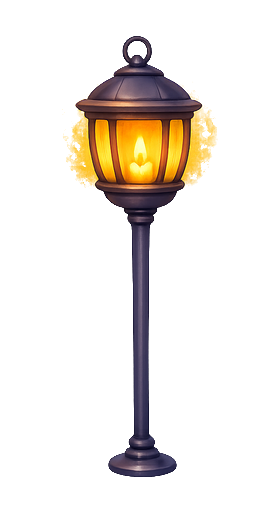
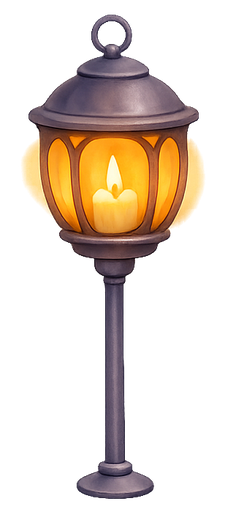
Art round two: a cobbled road, a softer lantern and a painted firefly on the map and the board
The road ribbon can repeat a painted surface inside its body, thinning out
toward the horizon in bands. The lantern posts are repainted in a softer
hand. The firefly is a picture drawn on the same feet point and with the
same squash, tilt, facing and sleep cues as the code-drawn creature, so
hops and landings are unchanged; it also replaces the firefly in the
board's lantern row. Everything still falls back to the code drawing
until its picture loads.

Claude-Session: https://claude.ai/code/session_01HrDDoeT6dnYBBVMvof2TGV

Changed region(s): [[0.0933, 0.0, 0.9333, 1.0]]

diff --git a/src/game/mapScene.ts b/src/game/mapScene.ts
@@ -17,7 +17,7 @@
 import './mapScene.css';
 import { areaForLevel, type AreaId } from '../core/journey';
 import { areaTheme, blendThemeColors, paintSky, type AreaTheme } from '../render/areas';
-import { COMPANIONS, type CompanionId, type CompanionOpts, drawCompanion } from '../render/creatures';
+import { COMPANIONS, type CompanionId, type CompanionOpts, drawCompanion, drawPaintedCompanion } from '../render/creatures';
 import { drawLanternPost, drawPathRibbon, drawSteppingLights, lanternPoint, type LanternPos, pathPoint, postLayout, smoothPolyline } from '../render/map';
 import type { Pt } from '../render/shapes';
 import { Stars, clamp01, easeInOutSine, easeOutCubic, glowDisc } from '../render/styles/common';
@@ -698,9 +698,32 @@ export class MapScene {
   /** Painted pieces (art round two); anything missing is drawn in code. */
   private art: MapArt | null = null;
 
+  private roadPattern: CanvasPattern | null = null;
+
   setArt(art: MapArt): void {
     this.art = art;
+    this.roadPattern = null;
     this.wake();
+  }
+
+  /** The painted road surface as a repeating pattern, scaled for the screen. */
+  private roadTexture(): CanvasPattern | null {
+    if (this.roadPattern) return this.roadPattern;
+    const img = this.art?.road;
+    if (!img) return null;
+    const pattern = this.ctx.createPattern(img, 'repeat');
+    if (!pattern) return null;
+    const scale = 64 / img.naturalWidth;
+    pattern.setTransform(new DOMMatrix().scale(scale, scale));
+    this.roadPattern = pattern;
+    return pattern;
+  }
+
+  /** The companion: painted when a picture exists for it, else drawn in code. */
+  private drawAnyCompanion(ctx: CanvasRenderingContext2D, id: CompanionId, x: number, y: number, s: number, t: number, opts: CompanionOpts = {}): void {
+    const picture = id === 'firefly' ? this.art?.firefly : undefined;
+    if (picture) drawPaintedCompanion(ctx, picture, x, y, s, t, opts);
+    else drawCompanion(ctx, id, x, y, s, t, opts);
   }
 
   /** How much of the painted meadow backdrop shows right now: 1 in the meadow, fading at its borders. */
@@ -985,7 +1008,7 @@ export class MapScene {
     ctx.clip();
     // Over the painted meadow the road is a little translucent, so the grass shows through its edges.
     ctx.globalAlpha = 1 - 0.22 * this.backdropAlpha(this.areasNow().a, this.areasNow().b, this.areasNow().f);
-    drawPathRibbon(ctx, smooth, { path: colors.path, pathLit: colors.pathLit }, (i) => PATH_WIDTH * (0.35 + 0.65 * this.sizeAt((smooth[i] as Pt).y)), (walkedTo - nLo) * SPLINE_PER, { clearY: hy + 8, solidY: hy + h * 0.17 });
+    drawPathRibbon(ctx, smooth, { path: colors.path, pathLit: colors.pathLit, texture: this.backdropAlpha(this.areasNow().a, this.areasNow().b, this.areasNow().f) > 0 ? this.roadTexture() : null }, (i) => PATH_WIDTH * (0.35 + 0.65 * this.sizeAt((smooth[i] as Pt).y)), (walkedTo - nLo) * SPLINE_PER, { clearY: hy + 8, solidY: hy + h * 0.17 });
     ctx.globalAlpha = 1;
     for (let n = nLo; n < walkedTo && n < nHi; n++) {
       const i = n - nLo;
@@ -1042,7 +1065,7 @@ export class MapScene {
       const p = this.slotScreen(fr.slot);
       const bob = Math.sin(t * 1.2 + i * 2.1) * 2;
       glowDisc(ctx, p.x, p.y + FRIEND_S * 0.4, FRIEND_S * 0.6, colors.pathLit, 0.1);
-      drawCompanion(ctx, fr.id, p.x, p.y + bob, FRIEND_S * this.sizeAt(p.y), t + i * 1.3, { glow: 0.85, facing: p.x < perchTo.x ? 1 : -1, wave: waveNow });
+      this.drawAnyCompanion(ctx, fr.id, p.x, p.y + bob, FRIEND_S * this.sizeAt(p.y), t + i * 1.3, { glow: 0.85, facing: p.x < perchTo.x ? 1 : -1, wave: waveNow });
     }
 
     // The companion: entering, hopping, landed, or asleep.
@@ -1053,8 +1076,8 @@ export class MapScene {
       const sinceLand = this.swap.t - HOP_MS;
       const inP = this.arc(slotP, perchTo, k);
       const outP = this.arc(perchTo, slotP, k);
-      drawCompanion(ctx, this.swap.outgoing, outP.x, outP.y, FRIEND_S, t, { ...this.hopPose(k, sinceLand, Math.sign(slotP.x - perchTo.x)), glow: 0.9 });
-      drawCompanion(ctx, this.swap.incoming, inP.x, inP.y, companionSize, t, { ...this.hopPose(k, sinceLand, Math.sign(perchTo.x - slotP.x)), glow: 1.1 });
+      this.drawAnyCompanion(ctx, this.swap.outgoing, outP.x, outP.y, FRIEND_S, t, { ...this.hopPose(k, sinceLand, Math.sign(slotP.x - perchTo.x)), glow: 0.9 });
+      this.drawAnyCompanion(ctx, this.swap.incoming, inP.x, inP.y, companionSize, t, { ...this.hopPose(k, sinceLand, Math.sign(perchTo.x - slotP.x)), glow: 1.1 });
     } else if (this.phase === 'hop') {
       const k = clamp01(this.phaseT / HOP_MS);
       const e = easeInOutSine(k);
@@ -1064,7 +1087,7 @@ export class MapScene {
       const perch = postLayout(ground.x, ground.y, this.lanternSizeAt(ground)).perch;
       const y = perch.y - Math.sin(k * Math.PI) * HOP_HEIGHT;
       const dir = Math.sign(lanternPoint(opts.to).x - lanternPoint(opts.from).x) || 1;
-      drawCompanion(ctx, this.companion, perch.x, y, COMPANION_S * this.sizeAt(perch.y), t, { ...this.hopPose(k, -1, dir), glow: 1.15 });
+      this.drawAnyCompanion(ctx, this.companion, perch.x, y, COMPANION_S * this.sizeAt(perch.y), t, { ...this.hopPose(k, -1, dir), glow: 1.15 });
     } else {
       const perch = this.litTo ? perchTo : this.perchOf(opts.from);
       const pose: CompanionOpts = { glow: 1.1 };
@@ -1080,7 +1103,7 @@ export class MapScene {
       }
       const bob = pose.sleep ? 0 : Math.sin(t * 1.4) * 1.5;
       glowDisc(ctx, perch.x, perch.y, companionSize * 0.7, colors.pathLit, 0.12);
-      drawCompanion(ctx, this.companion, perch.x, perch.y + bob, companionSize, t, pose);
+      this.drawAnyCompanion(ctx, this.companion, perch.x, perch.y + bob, companionSize, t, pose);
     }
   }
 

diff --git a/src/render/map.ts b/src/render/map.ts
@@ -75,6 +75,8 @@ export function smoothPolyline(points: readonly Pt[], per: number): Pt[] {
 export interface PathColors {
   path: string;
   pathLit: string;
+  /** A painted road surface, repeated inside the ribbon (art round two). */
+  texture?: CanvasPattern | null;
 }
 
 /**
@@ -102,7 +104,7 @@ export function ribbonOutline(pts: readonly Pt[], halfAt: (i: number) => number)
   return left.concat(right.reverse());
 }
 
-function fillOutline(ctx: CanvasRenderingContext2D, outline: readonly Pt[], style: string | CanvasGradient): void {
+function fillOutline(ctx: CanvasRenderingContext2D, outline: readonly Pt[], style: string | CanvasGradient | CanvasPattern): void {
   if (outline.length < 3) return;
   ctx.beginPath();
   outline.forEach((p, i) => (i === 0 ? ctx.moveTo(p.x, p.y) : ctx.lineTo(p.x, p.y)));
@@ -141,7 +143,44 @@ export function drawPathRibbon(ctx: CanvasRenderingContext2D, pts: readonly Pt[]
     [0.3, lighten(colors.path, 0.18), 0.2],
     [0.14, colors.pathLit, 0.07],
   ];
-  for (const [k, color, alpha] of passes) fillOutline(ctx, ribbonOutline(pts, (i) => widthAt(i) * k), paint(color, alpha));
+  for (const [k, color, alpha] of passes) {
+    fillOutline(ctx, ribbonOutline(pts, (i) => widthAt(i) * k), paint(color, alpha));
+    if (k === 0.5 && colors.texture) {
+      // The painted surface sits inside the ribbon's body, under the crown and the walked light.
+      ctx.save();
+      ctx.beginPath();
+      const body = ribbonOutline(pts, (i) => widthAt(i) * 0.5);
+      body.forEach((p, i) => (i === 0 ? ctx.moveTo(p.x, p.y) : ctx.lineTo(p.x, p.y)));
+      ctx.closePath();
+      ctx.clip();
+      const alphaMax = 0.85;
+      if (fade) {
+        // The stones thin out toward the horizon: a stack of bands, each a little fainter than the one below.
+        const bands = 8;
+        const bandH = (fade.solidY - fade.clearY) / bands;
+        for (let b = 0; b < bands; b++) {
+          ctx.save();
+          ctx.beginPath();
+          ctx.rect(-1e4, fade.clearY + b * bandH, 2e4, bandH + 0.5);
+          ctx.clip();
+          ctx.globalAlpha = alphaMax * ((b + 0.5) / bands);
+          fillOutline(ctx, body, colors.texture);
+          ctx.restore();
+        }
+        ctx.save();
+        ctx.beginPath();
+        ctx.rect(-1e4, fade.solidY, 2e4, 1e5);
+        ctx.clip();
+        ctx.globalAlpha = alphaMax;
+        fillOutline(ctx, body, colors.texture);
+        ctx.restore();
+      } else {
+        ctx.globalAlpha = alphaMax;
+        fillOutline(ctx, body, colors.texture);
+      }
+      ctx.restore();
+    }
+  }
   const walked = Math.min(pts.length, Math.max(0, litUntil) + 1);
   if (walked >= 2) fillOutline(ctx, ribbonOutline(pts.slice(0, walked), (i) => widthAt(i) * 0.13), paint(colors.pathLit, 0.16));
   ctx.restore();

diff --git a/src/game/view.ts b/src/game/view.ts
@@ -13,7 +13,7 @@ import type { Cell, GemType } from '../core/grid';
 import { createRng } from '../shared/rng';
 import { type AreaTheme, paintSky } from '../render/areas';
 import { lighten, rgba } from '../render/color';
-import { type CompanionId, drawCompanion, drawLantern } from '../render/creatures';
+import { type CompanionId, drawCompanion, drawLantern, drawPaintedCompanion } from '../render/creatures';
 import { drawBud, drawOrb } from '../render/board';
 import { drawAuroraPiece, drawCometHead, drawMoonPearl, drawSpriteCreature, drawStarburstRays, slowPulse } from '../render/powers';
 import { shapePath } from '../render/shapes';
@@ -284,6 +284,14 @@ export class GameView {
   /** Painted gem pictures have loaded: restamp the sprites and show them. */
   setGemArt(art: GemArt): void {
     this.sprites.setArt(art);
+    this.wake();
+  }
+
+  private companionArt: HTMLImageElement | null = null;
+
+  /** The painted firefly for the board's lantern row (art round two). */
+  setCompanionArt(picture: HTMLImageElement | null): void {
+    this.companionArt = picture;
     this.wake();
   }
 
@@ -2001,7 +2009,8 @@ export class GameView {
     drawLantern(ctx, cx - 34, hudY, lanternSize, Math.min(1, this.lanternFill + 0.02 * Math.sin(t * 0.55) + (pokeL ? 0.25 * Math.sin(clamp01(pokeL.t / 700) * Math.PI) : 0)), this.style.palette, t);
     const bob = Math.sin(t * 1.3) * 1.5;
     const hop = pokeC ? -14 * Math.sin(clamp01(pokeC.t / 700) * Math.PI) : 0;
-    drawCompanion(ctx, this.companion, cx + 40, hudY - 2 + bob + hop, 44, t, { glow: pokeC ? 1.5 : 1 });
+    if (this.companion === 'firefly' && this.companionArt) drawPaintedCompanion(ctx, this.companionArt, cx + 40, hudY - 2 + bob + hop, 44, t, { glow: pokeC ? 1.5 : 1 });
+    else drawCompanion(ctx, this.companion, cx + 40, hudY - 2 + bob + hop, 44, t, { glow: pokeC ? 1.5 : 1 });
     this.drawGoal(t);
     // Moon (the grown-up gate, Stage 3), dim, top-left; baked so the cut-out never touches the canvas beneath.
     // While a grown-up holds it, it brightens and a soft glow gathers, so the hold visibly "takes".

diff --git a/src/render/creatures.ts b/src/render/creatures.ts
@@ -55,6 +55,32 @@ function autoBlink(t: number, offset: number): number {
 
 const BLINK_OFFSET: Record<CompanionId, number> = { firefly: 0, fish: 1.7, hero: 2.9 };
 
+/**
+ * A painted companion (art round two): the picture stands on the same feet
+ * point as the code-drawn creature and takes the same squash, tilt, facing
+ * and sleep cues, so hops and landings feel the same. Its glow is drawn in
+ * code so it can breathe.
+ */
+export function drawPaintedCompanion(ctx: CanvasRenderingContext2D, picture: HTMLImageElement, x: number, y: number, s: number, t: number, opts: CompanionOpts = {}): void {
+  const sleep = opts.sleep ?? false;
+  const glow = (opts.glow ?? 1) * glowPulse(t, sleep);
+  const squash = sleep ? Math.min(opts.squash ?? 0.92, 0.92) : (opts.squash ?? 1);
+  const feet = s * 0.46;
+  const dh = s * 1.55;
+  const dw = dh * (picture.naturalWidth / picture.naturalHeight);
+  ctx.save();
+  ctx.translate(x, y + feet);
+  ctx.rotate((opts.tilt ?? 0) + (sleep ? 0.12 : 0));
+  ctx.scale((opts.facing ?? 1) / Math.sqrt(squash), squash);
+  ctx.translate(0, -feet);
+  ctx.save();
+  ctx.globalCompositeOperation = 'lighter';
+  glowDisc(ctx, 0, s * 0.25, s * 1.1, '#ffd27a', 0.22 * glow);
+  ctx.restore();
+  ctx.drawImage(picture, -dw / 2, feet - dh, dw, dh);
+  ctx.restore();
+}
+
 export function drawCompanion(ctx: CanvasRenderingContext2D, id: CompanionId, x: number, y: number, s: number, t: number, opts: CompanionOpts = {}): void {
   const sleep = opts.sleep ?? false;
   const motion = opts.motion ?? 1;

diff --git a/src/render/mapArt.ts b/src/render/mapArt.ts
@@ -12,6 +12,10 @@ export interface MapArt {
   backdrop?: HTMLImageElement;
   lanternLit?: HTMLImageElement;
   lanternUnlit?: HTMLImageElement;
+  /** A seamless road surface, repeated inside the path ribbon. */
+  road?: HTMLImageElement;
+  /** The firefly companion, facing right. */
+  firefly?: HTMLImageElement;
   props: Partial<Record<MapPropKind, HTMLImageElement>>;
 }
 
@@ -30,6 +34,8 @@ export function loadMapArt(onReady: (art: MapArt) => void): void {
     ['meadow-backdrop.jpg', (img) => (art.backdrop = img)],
     ['lantern-lit.png', (img) => (art.lanternLit = img)],
     ['lantern-unlit.png', (img) => (art.lanternUnlit = img)],
+    ['road.jpg', (img) => (art.road = img)],
+    ['firefly.png', (img) => (art.firefly = img)],
     ...PROP_KINDS.map((k): [string, (img: HTMLImageElement) => void] => [`prop-${k}.png`, (img) => (art.props[k] = img)]),
   ];
   let pending = files.length;

diff --git a/vite.config.ts b/vite.config.ts
@@ -24,7 +24,7 @@ function serviceWorker(): Plugin {
         './icons/icon-192.png',
         './icons/icon-512.png',
         ...['star', 'heart', 'drop', 'leaf', 'diamond', 'sunstone'].map((t) => `./art/gems/${t}.png`),
-        ...['meadow-backdrop.jpg', 'lantern-lit.png', 'lantern-unlit.png', 'prop-tuft.png', 'prop-flower.png', 'prop-mushroom.png', 'prop-stone.png'].map((f) => `./art/map/${f}`),
+        ...['meadow-backdrop.jpg', 'lantern-lit.png', 'lantern-unlit.png', 'road.jpg', 'firefly.png', 'prop-tuft.png', 'prop-flower.png', 'prop-mushroom.png', 'prop-stone.png'].map((f) => `./art/map/${f}`),
       ]);
       for (const f of files) assets.add('./' + f);
       const list = [...assets].sort();

diff --git a/src/game/app.ts b/src/game/app.ts
@@ -238,7 +238,10 @@ export class App {
 
     // The map canvas sits above the board and its touch surface; it is hidden when not in use.
     this.map = new MapScene(createMapCanvas(), nightGarden);
-    loadMapArt((art) => this.map.setArt(art));
+    loadMapArt((art) => {
+      this.map.setArt(art);
+      this.view.setCompanionArt(art.firefly ?? null);
+    });
 
     // Touch goes through the haptic overlay (a label over the canvas) when available, else the canvas.
     const surface = (document.getElementById('touch') as HTMLElement | null) ?? canvas;

diff --git a/DESIGN.md b/DESIGN.md
@@ -81,7 +81,7 @@ Made after the parent's first full play-test of Stage 3 on the phone. The play-t
 - **More wonder in the moments that exist.** The level-win rise now lasts about two seconds and lights the board's rim: the edge glows and two points of light run around it with soft tails and twinkles while the gems drift into the lantern. A power sitting on the board calls to be used: an aura in its own colour breathes beneath it and the gem swells very slightly at breathing pace; the comet's streak is a wide tinted band with a bright core and sliding sparks, so it reads as a comet at a glance. Every power's firing starts with a soft ring and a handful of sparkles in the gem's light.
 - **Haptics on a swipe: an attempt.** The iOS switch trick only ever ticked on a tap-tap swap, since a swipe produces no click. The tick is now asked for on the release of a swipe that made a valid swap. Whether iOS honours it inside a home-screen web app is unverified; if it still gives nothing on the phone, haptics are not reachable from a web app and the toggle should go.
 - **The art pass, round one.** The map: a road twice as wide, lanterns and creatures a third bigger, three rolling hill bands in the area's ground colours with a faint crest of its light, a field of slow stars over every sky, and seeded tufts, flowers, mushrooms and stones in the area's colours beside the path (the same stretch always looks the same). The firefly: fairy-like two-lobed wings with a sheen, veins and a glint, three sparks of light drifting round its belly, a warm rim of light under its head. The gems: a deeper body with a brighter heart, cut facets (an inner table and fine lines to the corners), a bounce of their own colour along the lower edge, a double rim and a four-point glint. More rounds follow the parent's eye.
-- **Art round two: painted pictures (5 October, afternoon).** The parent judged the code-drawn art "quite basic" and asked where a real game's polish comes from. The answer: painted images in one consistent style, which code cannot produce; light and motion, which the game already has. Decided: relax the brief's "all art in code" rule for the pictures only. The parent set up an OpenAI image key on the project's cloud environment (prepaid credit, no auto-recharge, so spending has a hard ceiling) and the images are generated from here, reviewed, cut up and wired in; the code-drawn version of each piece stays as the fallback until its picture loads. First test: the six gems (GPT Image 1.5, one sheet, transparent background, hand-painted storybook brief) under `public/art/gems/`, stamped by the sprite cache in place of `drawGem`. Second test, the map: a painted meadow backdrop behind the code-drawn road, painted lantern posts (lit and unlit, crossfaded) and painted plants and stones beside the path; the other six areas wait for the style session. A proper style session (one agreed look for every asset: gems, companions, lanterns, scenery, and the road itself) comes before the rest of the assets are made.
+- **Art round two: painted pictures (5 October, afternoon).** The parent judged the code-drawn art "quite basic" and asked where a real game's polish comes from. The answer: painted images in one consistent style, which code cannot produce; light and motion, which the game already has. Decided: relax the brief's "all art in code" rule for the pictures only. The parent set up an OpenAI image key on the project's cloud environment (prepaid credit, no auto-recharge, so spending has a hard ceiling) and the images are generated from here, reviewed, cut up and wired in; the code-drawn version of each piece stays as the fallback until its picture loads. First test: the six gems (GPT Image 1.5, one sheet, transparent background, hand-painted storybook brief) under `public/art/gems/`, stamped by the sprite cache in place of `drawGem`. Second test, the map: a painted meadow backdrop, a cobblestone surface inside the code-drawn road, painted lantern posts (lit and unlit, crossfaded), painted plants and stones beside the path, and a painted firefly on the map and the board; the other six areas and the other two companions wait for the style session. A proper style session (one agreed look for every asset: gems, companions, lanterns, scenery, and the road itself) comes before the rest of the assets are made.
 - **Free Play** (fun levels off the map) is noted as a maybe for later; replaying lit lanterns covers most of it.
 - **The scene fills the screen to the bottom edge.** The phone showed a black band under the board and the map because the whole canvas was padded in from the home-indicator strip. The sky and ground now run to the edge; only the top inset is padded, and the board itself is laid out above the strip so no gem or tappable sits under it. Full-bleed is the rule for scenery from here on.
 - **The moon gate was rejecting real thumbs.** It treated any touch wider than 28 px as a palm, and an iPhone reports an ordinary thumb at around 40 px, so most holds failed at once; a drift of more than 8 px during the hold also cancelled it, and the ring was nearly invisible for the first second. Now a touch over 80 px is a palm, a thumb may wobble by 24 px, the ring is visible from the first moment, and the moon itself brightens with the hold. A child still cannot pass the word step, so the hold can afford to be seen.

diff --git a/STATUS.md b/STATUS.md
@@ -10,7 +10,7 @@ Updated 5 October 2026, after the Stage 3 play-test (notes and the plan in the p
 - **Batch 4, round one, deployed (run 16):** the map (wider road, bigger lanterns and creatures, rolling hills, stars, glowing flora), the firefly (fairy wings, sparks, rim light) and the gems (facets, deeper body, double rim, glint). Screenshots in the project's `playtest/screens/` folder. Further rounds follow the parent's feedback.
 - **Bottom edge, on the branch (not yet deployed):** the parent noticed a black band under the board and the map on the phone. The scene canvas now runs to the bottom edge of the screen (only the top inset is padded) and the board is laid out above the home-indicator strip, so nothing tappable sits under it. The debug overlay prints the screen geometry in case a gap remains on the phone.
 - **Art round two, first test (branch `claude/project-thread-c1z3dj`):** painted gem pictures from the OpenAI image API (see DESIGN.md 2d) replace the code-drawn gems on the board; `src/render/gemArt.ts` loads them, `GemSprites.setArt` stamps them, the pictures are precached by the service worker. Verified in Chromium at phone size: idle board, swaps, clears, cascades and the comet gift over the painted gems. The sheet, the cut-outs and the screenshots are in the project's `art/round2/` folder. Next: the parent's phone verdict, then a style session before the firefly, lantern, scenery and other companions are painted.
-- **Art round two, map proof of concept (same branch):** a painted meadow backdrop (sky, hills, grass; scaled so its horizon sits on the map's horizon), a painted lantern post in lit and unlit versions crossfaded by the lantern's light, and painted tufts, flowers, mushrooms and stones beside the path, all under `public/art/map/`, loaded by `src/render/mapArt.ts`; the road, the companion and the lights stay code-drawn, the road a little translucent over the painting. Other areas still draw in code (the backdrop fades out at the Meadow's border). Verified in Chromium: the hop, the bloom, the lit and unlit lanterns. Before-and-after and a video in `art/round2/`.
+- **Art round two, map proof of concept (same branch):** a painted meadow backdrop (sky, hills, grass; scaled so its horizon sits on the map's horizon), a painted lantern post in lit and unlit versions crossfaded by the lantern's light, and painted tufts, flowers, mushrooms and stones beside the path, all under `public/art/map/`, loaded by `src/render/mapArt.ts`; then, at the parent's ask for a fair mockup, a painted cobblestone surface repeated inside the road ribbon (fading into the horizon in bands), a softer painted lantern, and a painted firefly that stands on the same feet point as the code-drawn one so hops, landings, facing and sleep still work (also in the board's lantern row). The lights, glows and the board's filling lantern stay code-drawn. Other areas still draw in code (the backdrop fades out at the Meadow's border). Verified in Chromium: the hop, the bloom, the lit and unlit lanterns. Before-and-after and a video in `art/round2/`.
 - **Open from the play-test:** whether the haptic tick on swipes works on the phone; a second art round once the parent has seen round one; L-shape clarity (a Bloom before lantern 8 makes nothing, by design) is left as is for now.
 
 ## Where things are
